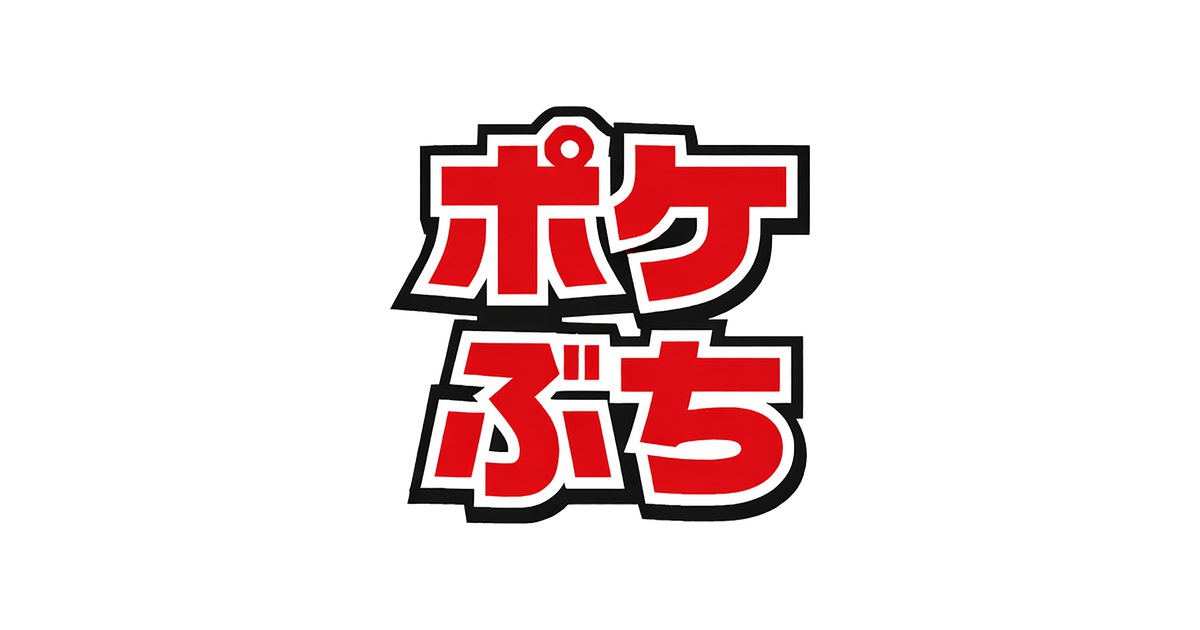
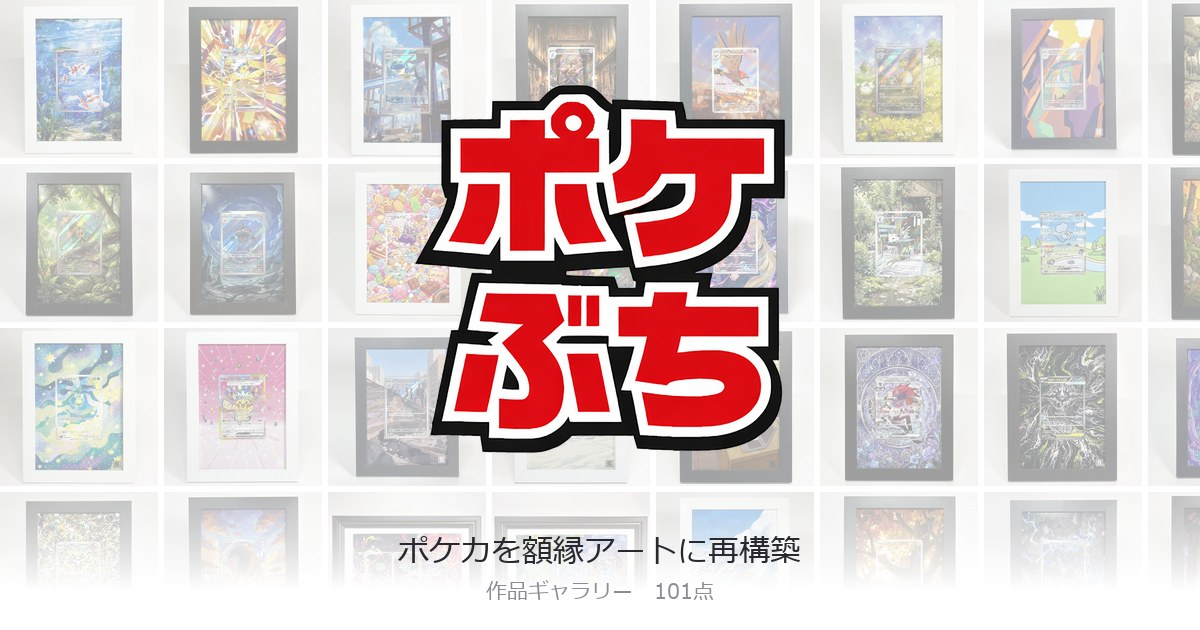
Xに貼ったときのカード画像を作り直し、住所を完全な形にした

diff --git a/docs/index.html b/docs/index.html
@@ -7,10 +7,20 @@
 <meta name="description" content="ポケカを額縁アートに再構築。ポケぶちのディスプレイフレーム作品ギャラリーです。">
 
 <meta property="og:type" content="website">
-<meta property="og:title" content="Pokebuchi Gallery｜ポケぶち 作品ギャラリー">
-<meta property="og:description" content="ポケカを額縁アートに再構築。ポケぶちのディスプレイフレーム作品ギャラリーです。">
-<meta property="og:image" content="ogp.jpg">
+<meta property="og:site_name" content="ポケぶち">
+<meta property="og:title" content="ポケぶち 作品ギャラリー">
+<meta property="og:description" content="ポケカを額縁アートに再構築。これまで制作した作品を一覧で見られます。">
+<meta property="og:url" content="https://pokebuchi.github.io/pokebuchi-gallery/">
+<!-- X や LINE に貼ったときの画像。住所は必ず https:// から書く -->
+<meta property="og:image" content="https://pokebuchi.github.io/pokebuchi-gallery/ogp.jpg?v=2">
+<meta property="og:image:width" content="1200">
+<meta property="og:image:height" content="630">
+<meta property="og:image:alt" content="ポケぶち 作品ギャラリー">
 <meta name="twitter:card" content="summary_large_image">
+<meta name="twitter:site" content="@poke_buchi">
+<meta name="twitter:title" content="ポケぶち 作品ギャラリー">
+<meta name="twitter:description" content="ポケカを額縁アートに再構築。これまで制作した作品を一覧で見られます。">
+<meta name="twitter:image" content="https://pokebuchi.github.io/pokebuchi-gallery/ogp.jpg?v=2">
 
 <link rel="icon" href="favicon.ico" sizes="any">
 <link rel="apple-touch-icon" href="apple-touch-icon.png">
